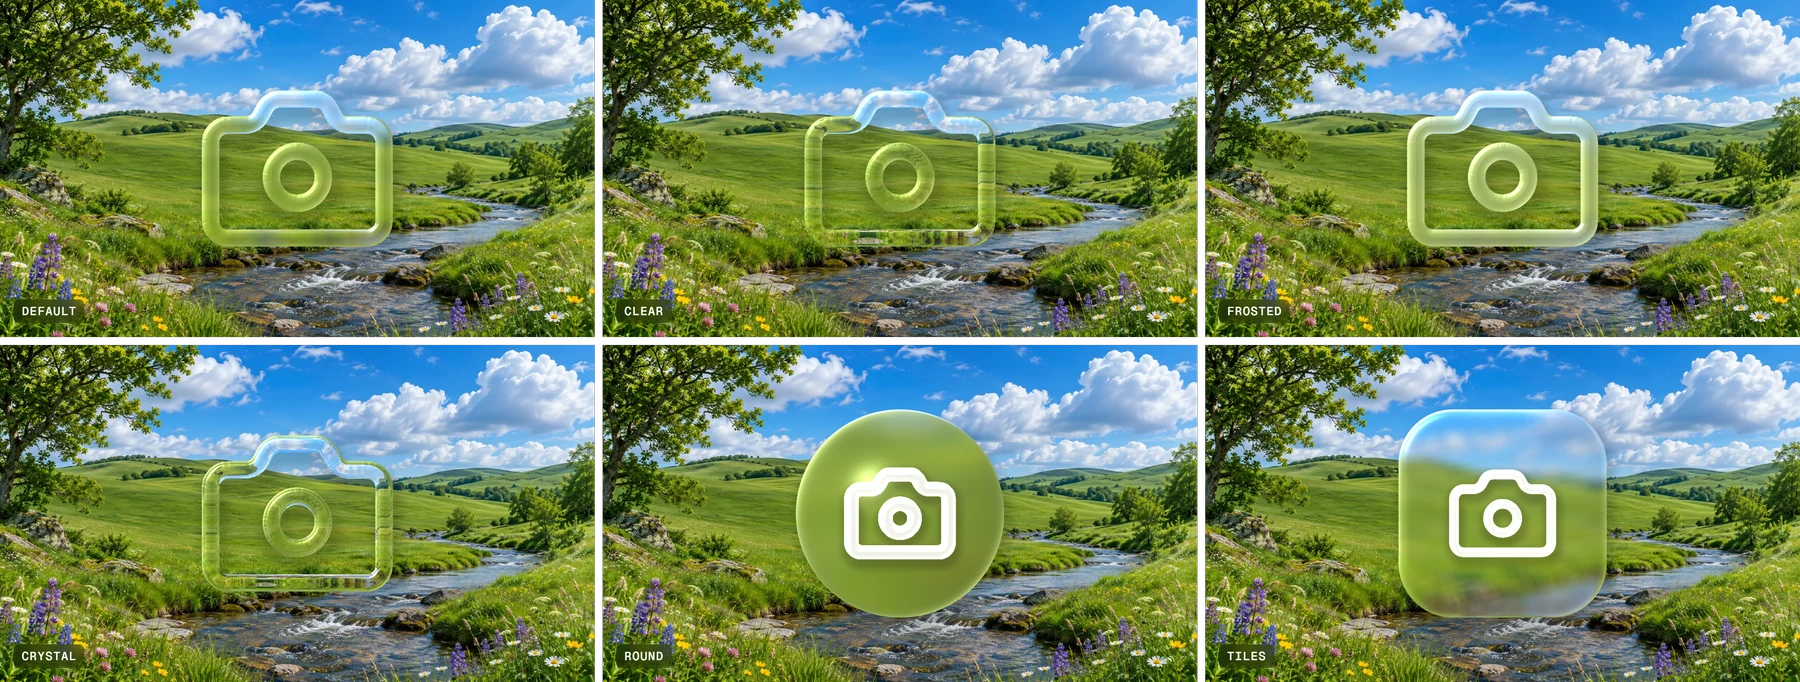
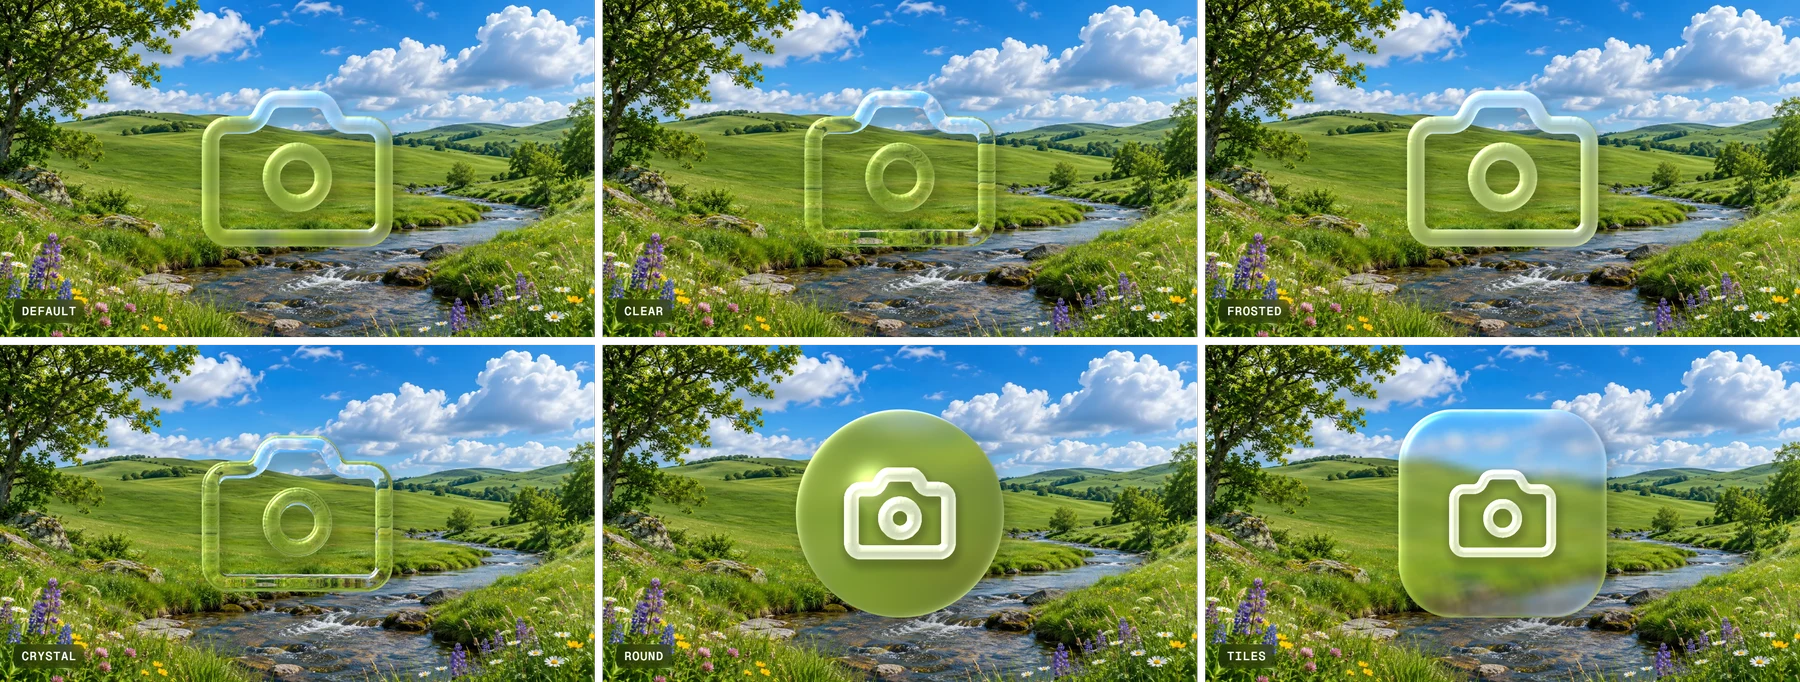
docs: glass ball lens and glass marks on tiles

Changed region(s): [[0.4667, 0.6774, 0.5289, 0.8314], [0.8089, 0.7082, 0.8711, 0.8314]]

diff --git a/README.md b/README.md
@@ -39,6 +39,10 @@ The original `<svg>` stays in the page, so screen readers, focus and clicks see 
 </tr>
 </table>
 
+<img src="https://raw.githubusercontent.com/duckvhuynh/glassity/main/docs/media/lens.webp" alt="A round glass lens with a heart, over a meadow, at three depths: magnified, then upside down with the sky at the bottom." width="100%">
+
+`profile: 'dome'` on a round tile is a ball of glass. Light is traced through both of its surfaces, so it magnifies what is behind it, and from a `depth` of about 0.3 the meadow shows upside down, as it would through a real glass sphere. The heart on it is glass too: marks on a tile lens the plate behind them.
+
 <img src="https://raw.githubusercontent.com/duckvhuynh/glassity/main/docs/media/looks.webp" alt="One camera icon in six looks: default, clear, frosted, crystal, on a round glass button, and on a glass tile." width="100%">
 
 Each look above is a handful of options on the same icon. Thin strokes turn into round tubes, wide shapes get a flat top and a bevelled rim, and `tile` puts the icon on a plate (`tileRadius: 0.5` makes it round). `weight` makes any icon bolder, stroked or filled. There are 36 options, all with defaults.
@@ -243,7 +247,7 @@ Every option is optional. Sizes are fractions of the icon's box, so icons of any
 | Option | Default | What it does |
 |---|---|---|
 | `variant` | `'regular'` | `regular` keeps content legible; `clear` is see-through; `identity` leaves the SVG untouched |
-| `profile` | `'squircle'` | Cross-section of the edge: `squircle`, `circle`, `lip` |
+| `profile` | `'squircle'` | Cross-section of the edge: `squircle`, `circle`, `lip`, or `dome`, a ball of glass that magnifies and, with `depth` from about 0.3, shows the page upside down. Best on a round tile |
 | `tile` | `false` | Put the icon on a rounded glass plate that fills the SVG's box |
 | `tileRadius` | `0.26` | Plate corner radius, 0 to 0.5. `0.5` makes a round button |
 | `glyphOpacity` | `0.9` | How solid the icon is on a plate |

diff --git a/ROADMAP.md b/ROADMAP.md
@@ -48,6 +48,8 @@ Last updated: 2026-11-17.
 - [x] Angular: `provideGlassity`, `injectGlass`, `injectGlassProvider`; Remix 3: `glass` and `glassProvider` mixins; Preact through `glassity/react`
 - [x] Script-tag build with auto mode
 - [x] 36 options, all with defaults, including `weight` (bolder icons, stroked or filled) and round buttons (`tileRadius: 0.5`)
+- [x] `dome` profile: a glass ball traced through both surfaces (magnifies, turns the page upside down past its focal length)
+- [x] Marks on a tile are glass that lenses the plate
 - [x] Light glass on light pages, as Apple's: outlined by its own refracted shadow and a thin contour instead of turning grey
 
 ### Living in other people's DOM

diff --git a/CHANGELOG.md b/CHANGELOG.md
@@ -4,6 +4,11 @@ All notable changes to glassity. The format follows [Keep a Changelog](https://k
 
 ## [Unreleased]
 
+### Added
+- `profile: 'dome'`: a ball of glass, traced through both of its surfaces. It magnifies, and with `depth` from about 0.3 shows the page upside down. Best on a round tile.
+- Marks on a tile are glass too: they lens the plate behind them under a white, frosted body.
+- Playground preset "Lens".
+
 ## [0.2.0] - 2026-11-17
 
 ### Added
